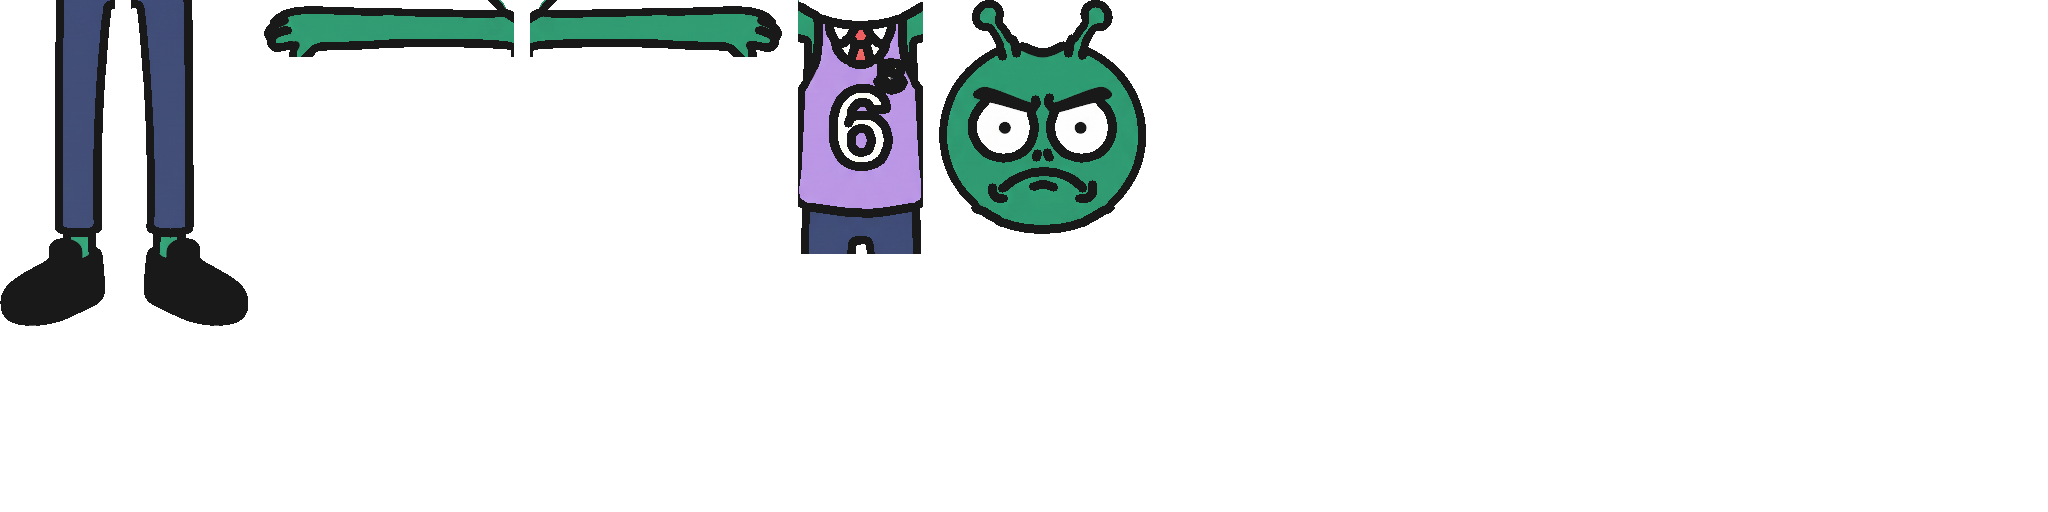
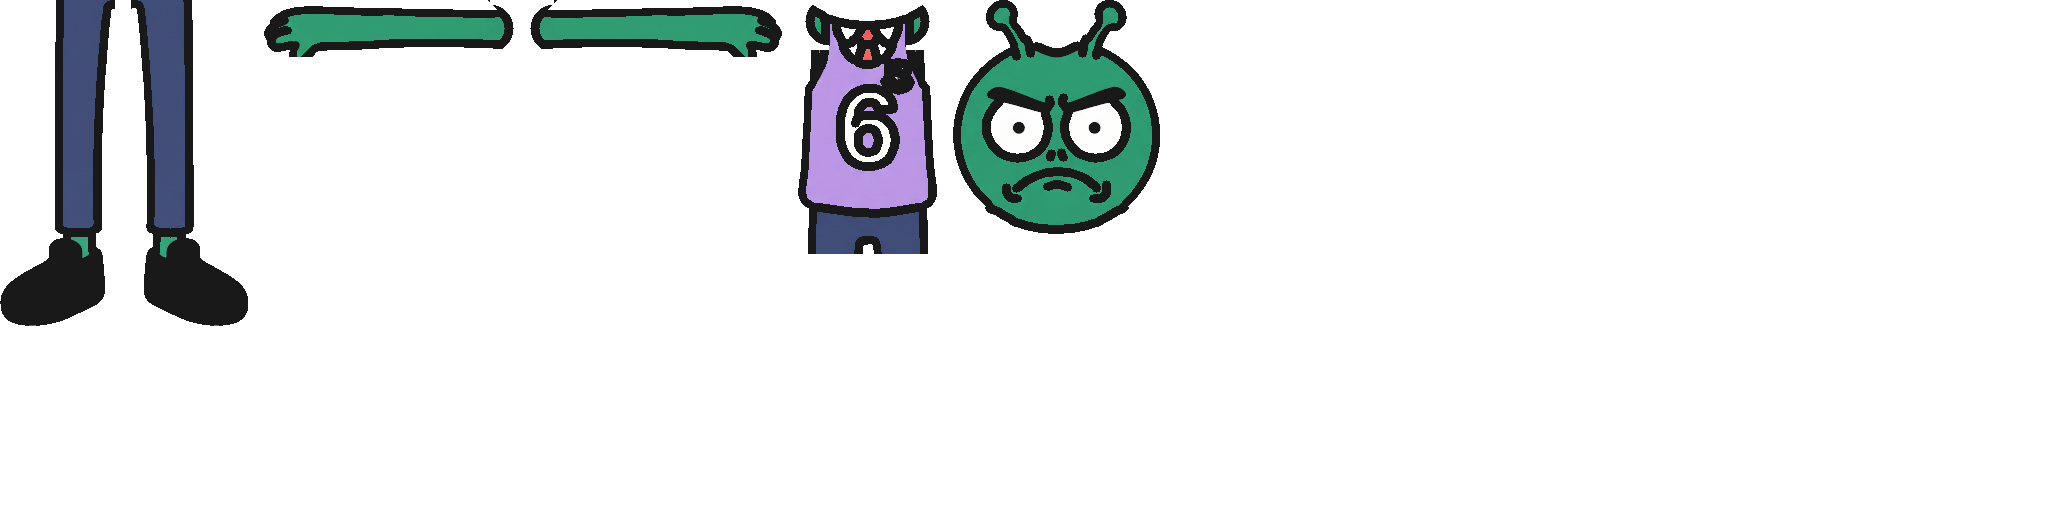
Aliens : les côtés du buste ne sont plus coupés (DT.5)
Découpe : sous les bras, le tronc garde toute la largeur du corps ; bout
des bras et épaules arrondis et cerclés d'encre. Les 8 Aliens et leur
tenue miroir sont redécoupés.

Claude-Session: https://claude.ai/code/session_01QntoMRFw2Q2S2HU7fh68r4

Changed region(s): [[0.375, 0.0, 0.5938, 0.5], [0.2188, 0.0, 0.2812, 0.0938]]

diff --git a/src/game/skins/cartoon/rigEquipes.ts b/src/game/skins/cartoon/rigEquipes.ts
@@ -14,8 +14,8 @@ export const RIGS_EQUIPES: Record<string, Rig> = {
       jambeD: { cadre: [128, 0, 115, 318], pivot: [31.0, 9.0], pos: [31.0, -309.0] },
       brasG: { cadre: [259, 0, 244, 58], pivot: [239.5, 29.0], pos: [-56.5, -527.0] },
       brasD: { cadre: [519, 0, 246, 58], pivot: [4.5, 29.0], pos: [57.5, -527.0] },
-      tronc: { cadre: [781, 0, 123, 245], pivot: [61.0, 236.0], pos: [0.0, -309.0] },
-      tete: { cadre: [920, 0, 211, 234], pivot: [105.0, 233.0], pos: [0.0, -515.0] },
+      tronc: { cadre: [781, 0, 135, 245], pivot: [67.0, 236.0], pos: [0.0, -309.0] },
+      tete: { cadre: [932, 0, 211, 234], pivot: [105.0, 233.0], pos: [0.0, -515.0] },
     },
   },
   'aliens-contagieux': {
@@ -27,8 +27,8 @@ export const RIGS_EQUIPES: Record<string, Rig> = {
       jambeD: { cadre: [110, 0, 133, 264], pivot: [40.0, 9.0], pos: [40.0, -255.0] },
       brasG: { cadre: [259, 0, 208, 49], pivot: [203.5, 21.0], pos: [-74.5, -528.0] },
       brasD: { cadre: [483, 0, 246, 55], pivot: [4.5, 27.0], pos: [75.5, -528.0] },
-      tronc: { cadre: [745, 0, 159, 309], pivot: [79.0, 300.0], pos: [0.0, -255.0] },
-      tete: { cadre: [920, 0, 206, 197], pivot: [84.0, 196.0], pos: [0.0, -552.0] },
+      tronc: { cadre: [745, 0, 174, 309], pivot: [83.0, 300.0], pos: [0.0, -255.0] },
+      tete: { cadre: [935, 0, 206, 197], pivot: [84.0, 196.0], pos: [0.0, -552.0] },
     },
   },
   'aliens-delegue': {
@@ -40,8 +40,8 @@ export const RIGS_EQUIPES: Record<string, Rig> = {
       jambeD: { cadre: [131, 0, 117, 326], pivot: [31.0, 9.0], pos: [31.0, -317.0] },
       brasG: { cadre: [264, 0, 250, 57], pivot: [245.5, 28.0], pos: [-57.5, -541.0] },
       brasD: { cadre: [530, 0, 252, 57], pivot: [4.5, 28.0], pos: [58.5, -541.0] },
-      tronc: { cadre: [798, 0, 125, 254], pivot: [62.0, 245.0], pos: [0.0, -317.0] },
-      tete: { cadre: [939, 0, 207, 234], pivot: [103.0, 233.0], pos: [0.0, -533.0] },
+      tronc: { cadre: [798, 0, 139, 254], pivot: [69.0, 245.0], pos: [0.0, -317.0] },
+      tete: { cadre: [953, 0, 207, 234], pivot: [103.0, 233.0], pos: [0.0, -533.0] },
     },
   },
   'aliens-fouine': {
@@ -53,8 +53,8 @@ export const RIGS_EQUIPES: Record<string, Rig> = {
       jambeD: { cadre: [127, 0, 113, 315], pivot: [30.0, 9.0], pos: [30.0, -306.0] },
       brasG: { cadre: [256, 0, 241, 56], pivot: [236.5, 28.0], pos: [-56.5, -522.0] },
       brasD: { cadre: [513, 0, 243, 56], pivot: [4.5, 28.0], pos: [56.5, -522.0] },
-      tronc: { cadre: [772, 0, 122, 244], pivot: [61.0, 235.0], pos: [0.0, -306.0] },
-      tete: { cadre: [910, 0, 166, 244], pivot: [87.0, 243.0], pos: [0.0, -497.0] },
+      tronc: { cadre: [772, 0, 134, 244], pivot: [67.0, 235.0], pos: [0.0, -306.0] },
+      tete: { cadre: [922, 0, 166, 244], pivot: [87.0, 243.0], pos: [0.0, -497.0] },
     },
   },
   'aliens-grand': {
@@ -66,8 +66,8 @@ export const RIGS_EQUIPES: Record<string, Rig> = {
       jambeD: { cadre: [148, 0, 134, 370], pivot: [36.0, 9.0], pos: [36.0, -361.0] },
       brasG: { cadre: [298, 0, 284, 57], pivot: [279.5, 25.0], pos: [-67.5, -619.0] },
       brasD: { cadre: [598, 0, 286, 57], pivot: [4.5, 25.0], pos: [67.5, -619.0] },
-      tronc: { cadre: [900, 0, 144, 298], pivot: [72.0, 289.0], pos: [0.0, -361.0] },
-      tete: { cadre: [1060, 0, 235, 288], pivot: [144.0, 287.0], pos: [0.0, -590.0] },
+      tronc: { cadre: [900, 0, 158, 298], pivot: [79.0, 289.0], pos: [0.0, -361.0] },
+      tete: { cadre: [1074, 0, 235, 288], pivot: [144.0, 287.0], pos: [0.0, -590.0] },
     },
   },
   'aliens-petit': {
@@ -79,8 +79,8 @@ export const RIGS_EQUIPES: Record<string, Rig> = {
       jambeD: { cadre: [102, 0, 87, 154], pivot: [29.0, 9.0], pos: [29.0, -145.0] },
       brasG: { cadre: [205, 0, 139, 46], pivot: [134.5, 23.0], pos: [-53.5, -304.0] },
       brasD: { cadre: [360, 0, 139, 46], pivot: [4.5, 23.0], pos: [54.5, -304.0] },
-      tronc: { cadre: [515, 0, 117, 191], pivot: [58.0, 182.0], pos: [0.0, -145.0] },
-      tete: { cadre: [648, 0, 219, 270], pivot: [109.0, 269.0], pos: [0.0, -312.0] },
+      tronc: { cadre: [515, 0, 127, 191], pivot: [63.0, 182.0], pos: [0.0, -145.0] },
+      tete: { cadre: [658, 0, 219, 270], pivot: [109.0, 269.0], pos: [0.0, -312.0] },
     },
   },
   'aliens-populaire': {
@@ -92,8 +92,8 @@ export const RIGS_EQUIPES: Record<string, Rig> = {
       jambeD: { cadre: [129, 0, 116, 322], pivot: [31.0, 9.0], pos: [31.0, -313.0] },
       brasG: { cadre: [261, 0, 246, 57], pivot: [241.5, 28.0], pos: [-57.5, -535.0] },
       brasD: { cadre: [523, 0, 249, 57], pivot: [4.5, 28.0], pos: [57.5, -535.0] },
-      tronc: { cadre: [788, 0, 124, 259], pivot: [62.0, 250.0], pos: [0.0, -313.0] },
-      tete: { cadre: [928, 0, 320, 236], pivot: [159.0, 235.0], pos: [0.0, -522.0] },
+      tronc: { cadre: [788, 0, 137, 259], pivot: [68.0, 250.0], pos: [0.0, -313.0] },
+      tete: { cadre: [941, 0, 320, 236], pivot: [159.0, 235.0], pos: [0.0, -522.0] },
     },
   },
   'aliens-rapporteuse': {
@@ -105,8 +105,8 @@ export const RIGS_EQUIPES: Record<string, Rig> = {
       jambeD: { cadre: [127, 0, 113, 315], pivot: [30.0, 9.0], pos: [30.0, -306.0] },
       brasG: { cadre: [256, 0, 241, 56], pivot: [236.5, 28.0], pos: [-56.5, -522.0] },
       brasD: { cadre: [513, 0, 243, 56], pivot: [4.5, 28.0], pos: [56.5, -522.0] },
-      tronc: { cadre: [772, 0, 122, 253], pivot: [61.0, 244.0], pos: [0.0, -306.0] },
-      tete: { cadre: [910, 0, 324, 231], pivot: [161.0, 230.0], pos: [0.0, -510.0] },
+      tronc: { cadre: [772, 0, 134, 253], pivot: [67.0, 244.0], pos: [0.0, -306.0] },
+      tete: { cadre: [922, 0, 324, 231], pivot: [161.0, 230.0], pos: [0.0, -510.0] },
     },
   },
   'vers-chouchou': {

diff --git a/scripts/decoupe.py b/scripts/decoupe.py
@@ -151,12 +151,50 @@ def humanoide(img):
         piece('tete', 0, menton + 1, 0, w, (milieu, menton), tete)
         # Le tronc et les bras ne gardent que le dessous de la tête (son intérieur est retiré).
         reste = ~(cv2.erode(tete.astype(np.uint8), noyau) > 0)
-        piece('tronc', by0 - marge, entre + marge, tx0, tx1, (milieu, entre), reste)
+        # Sous les bras, le corps garde toute sa largeur (écharpe, sweat, épaules plus larges que
+        # la taille) : la plage pleine qui contient le milieu, ligne par ligne (DT.5). Avant, il
+        # était coupé droit à la largeur de la taille, et les côtés du buste tombaient.
+        corps = np.zeros_like(a)
+        for y in range(by1 + marge, min(h, entre + marge)):
+            for r0, r1 in runs(a[y]):
+                # Une ligne encore reliée aux bras (leur trait du dessous) est bien plus large.
+                if r0 <= milieu < r1 and r1 - r0 <= 1.6 * (tx1 - tx0):
+                    corps[y, r0:r1] = True
+        dans_tronc = np.zeros_like(a)
+        dans_tronc[by0 - marge : entre + marge, tx0:tx1] = True
+        piece('tronc', by0 - marge, entre + marge, 0, w, (milieu, entre), (dans_tronc | corps) & reste)
         for nom in ['brasG', 'brasD']:
-            m, piv, abs_ = pieces[nom]
             pieces.pop(nom)
-        piece('brasG', by0 - marge, by1 + marge, 0, tx0 + marge, (tx0 + marge * 0.5, ym), reste)
-        piece('brasD', by0 - marge, by1 + marge, tx1 - marge, w, (tx1 - marge * 0.5, ym), reste)
+        bras_seuls = reste & ~corps
+        piece('brasG', by0 - marge, by1 + marge, 0, tx0 + marge, (tx0 + marge * 0.5, ym), bras_seuls)
+        piece('brasD', by0 - marge, by1 + marge, tx1 - marge, w, (tx1 - marge * 0.5, ym), bras_seuls)
+        # Bout du bras arrondi autour de l'épaule (DT.5) : coupé droit, ses coins dépassaient du
+        # tronc quand le bras pend. Arrondi et cerclé d'encre, il tourne sans rien montrer.
+        rayon = (by1 - by0) / 2 + TRAIT / 2
+        for nom, signe in [('brasG', 1), ('brasD', -1)]:
+            m, piv, abs_ = pieces[nom]
+            yy, xx = np.mgrid[: m.shape[0], : m.shape[1]]
+            bout = m.shape[1] - 1 if signe > 0 else 0
+            cx = bout - signe * rayon
+            d = np.hypot(xx - cx, yy - piv[1])
+            au_dela = (xx - cx) * signe > 0
+            plein = m[..., 3] > 0
+            m[..., 3] = np.where(au_dela & (d > rayon), 0, m[..., 3])
+            liseré = au_dela & (d > rayon - TRAIT) & (d <= rayon) & plein
+            m[liseré] = (25, 25, 25, 255)
+        # Le tronc aussi : ses épaules s'arrondissent là où le bras est coupé.
+        m, piv, abs_ = pieces['tronc']
+        ox, oy = abs_[0] - piv[0], abs_[1] - piv[1]
+        yy, xx = np.mgrid[: m.shape[0], : m.shape[1]]
+        xx, yy = xx + ox, yy + oy
+        plein = m[..., 3] > 0
+        bande = yy < by1 + marge
+        for bord, signe in [(tx0, 1), (tx1 - 1, -1)]:
+            cx = bord + signe * rayon
+            d = np.hypot(xx - cx, yy - ym)
+            dehors = bande & ((xx - cx) * signe < 0)
+            m[..., 3] = np.where(dehors & (d > rayon), 0, m[..., 3])
+            m[dehors & (d > rayon - TRAIT) & (d <= rayon) & plein] = (25, 25, 25, 255)
     else:
         piece('tete', 0, cou + 4, 0, w, (milieu, cou), sans_bras)
         piece('tronc', cou, entre + marge, tx0, tx1, (milieu, entre))

diff --git a/docs/decisions.md b/docs/decisions.md
@@ -569,3 +569,4 @@ Demande de Clément : « Je commence à avoir un doute avec le design de mes ali
 - **DT.3 — Tenue miroir orange refaite** à partir des nouveaux dessins (`scripts/tenue-miroir.py aliens`).
 - À suivre : les vidéos de pouvoir des Aliens (`public/videos/cartoon/aliens*-*.mp4`) montrent encore l'ancien dessin ; à refaire avec le fil des vidéos.
 - **DT.4 — Bustes de l'écran « Choisis ta bande » : coiffures et mains ne sont plus rognées** (Clément : « Sur les preview aliens les filles ont les cheveux cropés », puis la Rapporteuse des Vers, puis « les mains de la rapporteuse et de la fouine humaine »). Le masque du buste ne coupe plus que sous le débardeur ; sur les côtés il laisse 1,6 fois la case, pour une tête décentrée ou qui se balance et pour les gestes (la Rapporteuse qui pointe, la Populaire qui salue peuvent passer devant le voisin). Pour tenir, un buste se réduit si sa tête, ou son tronc avec les bras qui pendent, dépasse 1,2 fois la case.
+- **DT.5 — Les côtés du buste des Aliens ne sont plus coupés** (Clément : « le corps des aliens semble cropé sur les côtés », « les côtés du buste »). La découpe gardait le tronc à la largeur de la taille et coupait droit bras et épaules : l'écharpe, le sweat et les épaules tombaient, et les coins carrés du bras dépassaient quand il pend. Sous les bras, le tronc garde maintenant toute la largeur du corps ; le bout du bras et les épaules du tronc sont arrondis et cerclés d'encre, ce qui ne laisse plus de coupe visible (`scripts/decoupe.py --tete-encre`, les 8 Aliens et leur tenue miroir).
